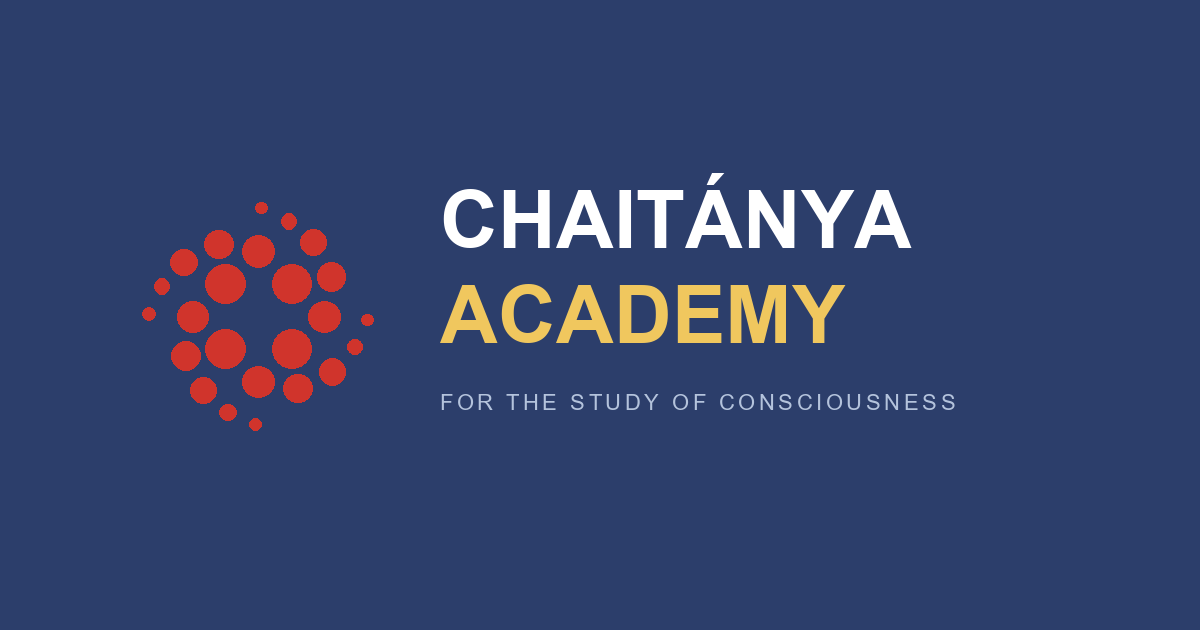
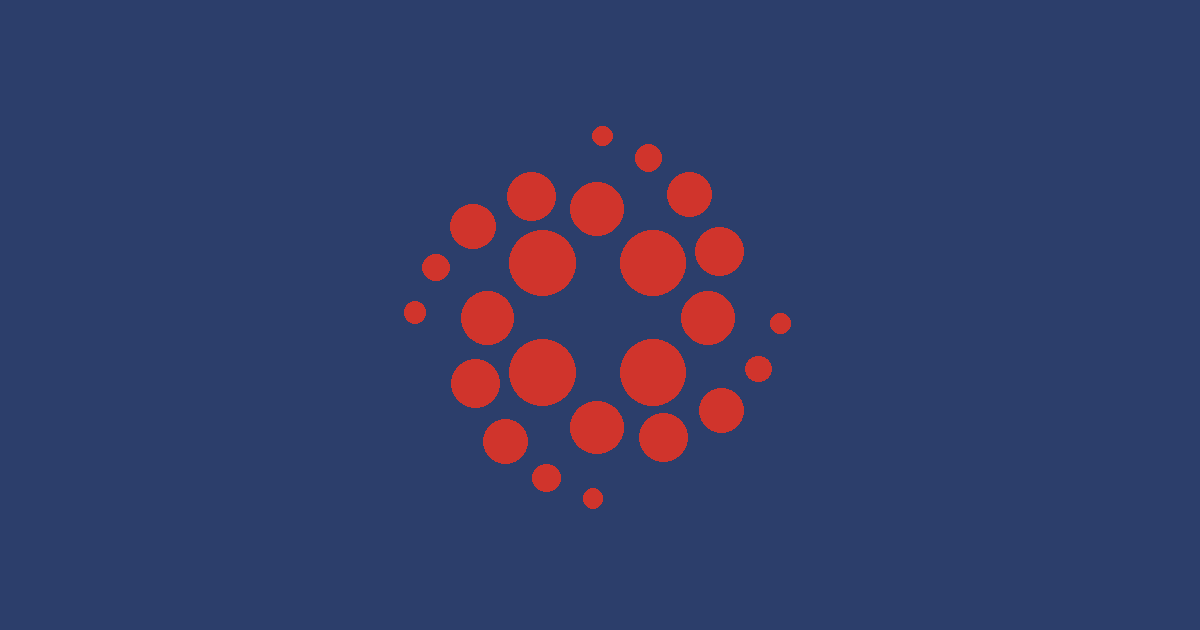
OG image: centered mandala only, optimized for WhatsApp square crop

diff --git a/index.html b/index.html
@@ -8,7 +8,7 @@
     <!-- Open Graph (Telegram, WhatsApp, Facebook link preview) -->
     <meta property="og:title" content="Chaitanya Academy — Video & Audio Link Finder">
     <meta property="og:description" content="~10 000 MP3 files by Prem Prayojan Prabhu | Transcripts EN/LV/RU | ~10 000 MP3 файлов | Транскрипты EN/LV/RU">
-    <meta property="og:image" content="https://gurudas-sda.github.io/ca-link-finder/og-image.png?v=7">
+    <meta property="og:image" content="https://gurudas-sda.github.io/ca-link-finder/og-image.png?v=8">
     <meta property="og:image:width" content="1200">
     <meta property="og:image:height" content="630">
     <meta property="og:type" content="website">
@@ -16,7 +16,7 @@
     <meta name="twitter:card" content="summary_large_image">
     <meta name="twitter:title" content="Chaitanya Academy — Video & Audio Link Finder">
     <meta name="twitter:description" content="~10 000 MP3 files by Prem Prayojan Prabhu | Transcripts EN/LV/RU | ~10 000 MP3 файлов | Транскрипты EN/LV/RU">
-    <meta name="twitter:image" content="https://gurudas-sda.github.io/ca-link-finder/og-image.png?v=7">
+    <meta name="twitter:image" content="https://gurudas-sda.github.io/ca-link-finder/og-image.png?v=8">
 
     <!-- PWA & Icons -->
     <link rel="manifest" href="manifest.json">
